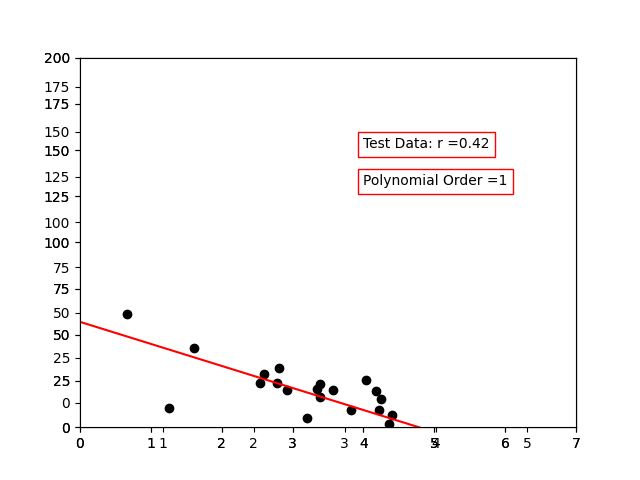
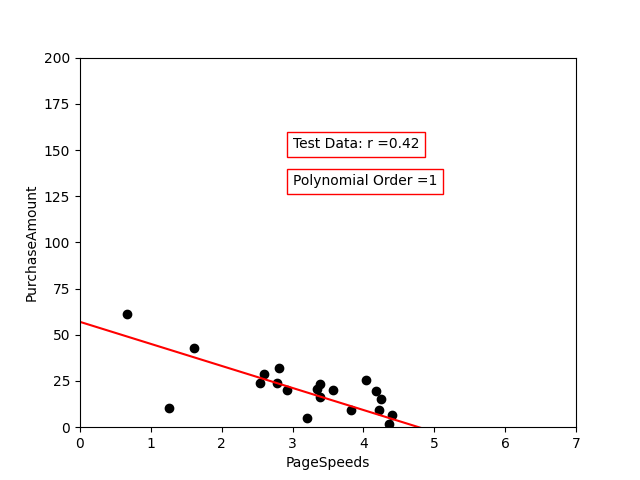
Add files via upload

diff --git a/Polynomial_Regression.py b/Polynomial_Regression.py
@@ -30,7 +30,7 @@ plt.scatter(pageSpeeds, purchaseAmount)
 #plt.show()
 
 # The aim is to fit polynomial functions, order [1 - 4].
-n = np.arange(1, 4, 1)
+n = np.arange(1, 10, 1)
 scores = []
 
 for i in n:
@@ -46,10 +46,13 @@ for i in n:
      ax.set_ylim([0, 200])
      plt.scatter(x, y, c = 'g') # Training data..
      plt.plot(xp, p4(xp), c = 'r') # Model to be trained..
+     plt.xlabel('PageSpeeds', fontsize=10)
+     plt.ylabel('PurchaseAmount', fontsize=10)
      r3 = r2_score(np.array(trainY), p4(np.array(trainX)))
-     plt.text(4.0, 151.0, 'Train Data: r ='+str(round(r3, 2)), bbox=dict(fill=False, edgecolor='red', linewidth=1))
-     plt.text(4.0, 131.0, 'Polynomial Order ='+str(i), bbox=dict(fill=False, edgecolor='red', linewidth=1))
+     plt.text(3.0, 151.0, 'Train Data: r ='+str(round(r3, 2)), bbox=dict(fill=False, edgecolor='red', linewidth=1))
+     plt.text(3.0, 131.0, 'Polynomial Order ='+str(i), bbox=dict(fill=False, edgecolor='red', linewidth=1))
      plt.savefig('poly_'+str(i)+'_train_fit.png')
+     plt.close()
 
      testx = np.array(testX)
      testy = np.array(testY)
@@ -58,10 +61,13 @@ for i in n:
      axes.set_ylim([0, 200])
      plt.scatter(testx, testy, c='k') # Test data..
      plt.plot(xp, p4(xp), c = 'r') # Trained Model..
+     plt.xlabel('PageSpeeds', fontsize=10)
+     plt.ylabel('PurchaseAmount', fontsize=10)
      r2 = r2_score(testy, p4(testx))
-     plt.text(4.0, 151.0, 'Test Data: r ='+str(round(r2, 2)), bbox=dict(fill=False, edgecolor='red', linewidth=1))
-     plt.text(4.0, 131.0, 'Polynomial Order ='+str(i), bbox=dict(fill=False, edgecolor='red', linewidth=1))
+     plt.text(3.0, 151.0, 'Test Data: r ='+str(round(r2, 2)), bbox=dict(fill=False, edgecolor='red', linewidth=1))
+     plt.text(3.0, 131.0, 'Polynomial Order ='+str(i), bbox=dict(fill=False, edgecolor='red', linewidth=1))
      plt.savefig('poly_'+str(i)+'_test_fit.png')
+     plt.close()
 
      
      scores.append(r2)
@@ -83,7 +89,7 @@ for j in imgs:
 frames[0].save('png_to_gif.gif', format = 'GIF',
                append_images = frames[1:],
                save_all = True,
-               duration = 1000,
+               duration = 1500,
                Loop = 0)
 
 
